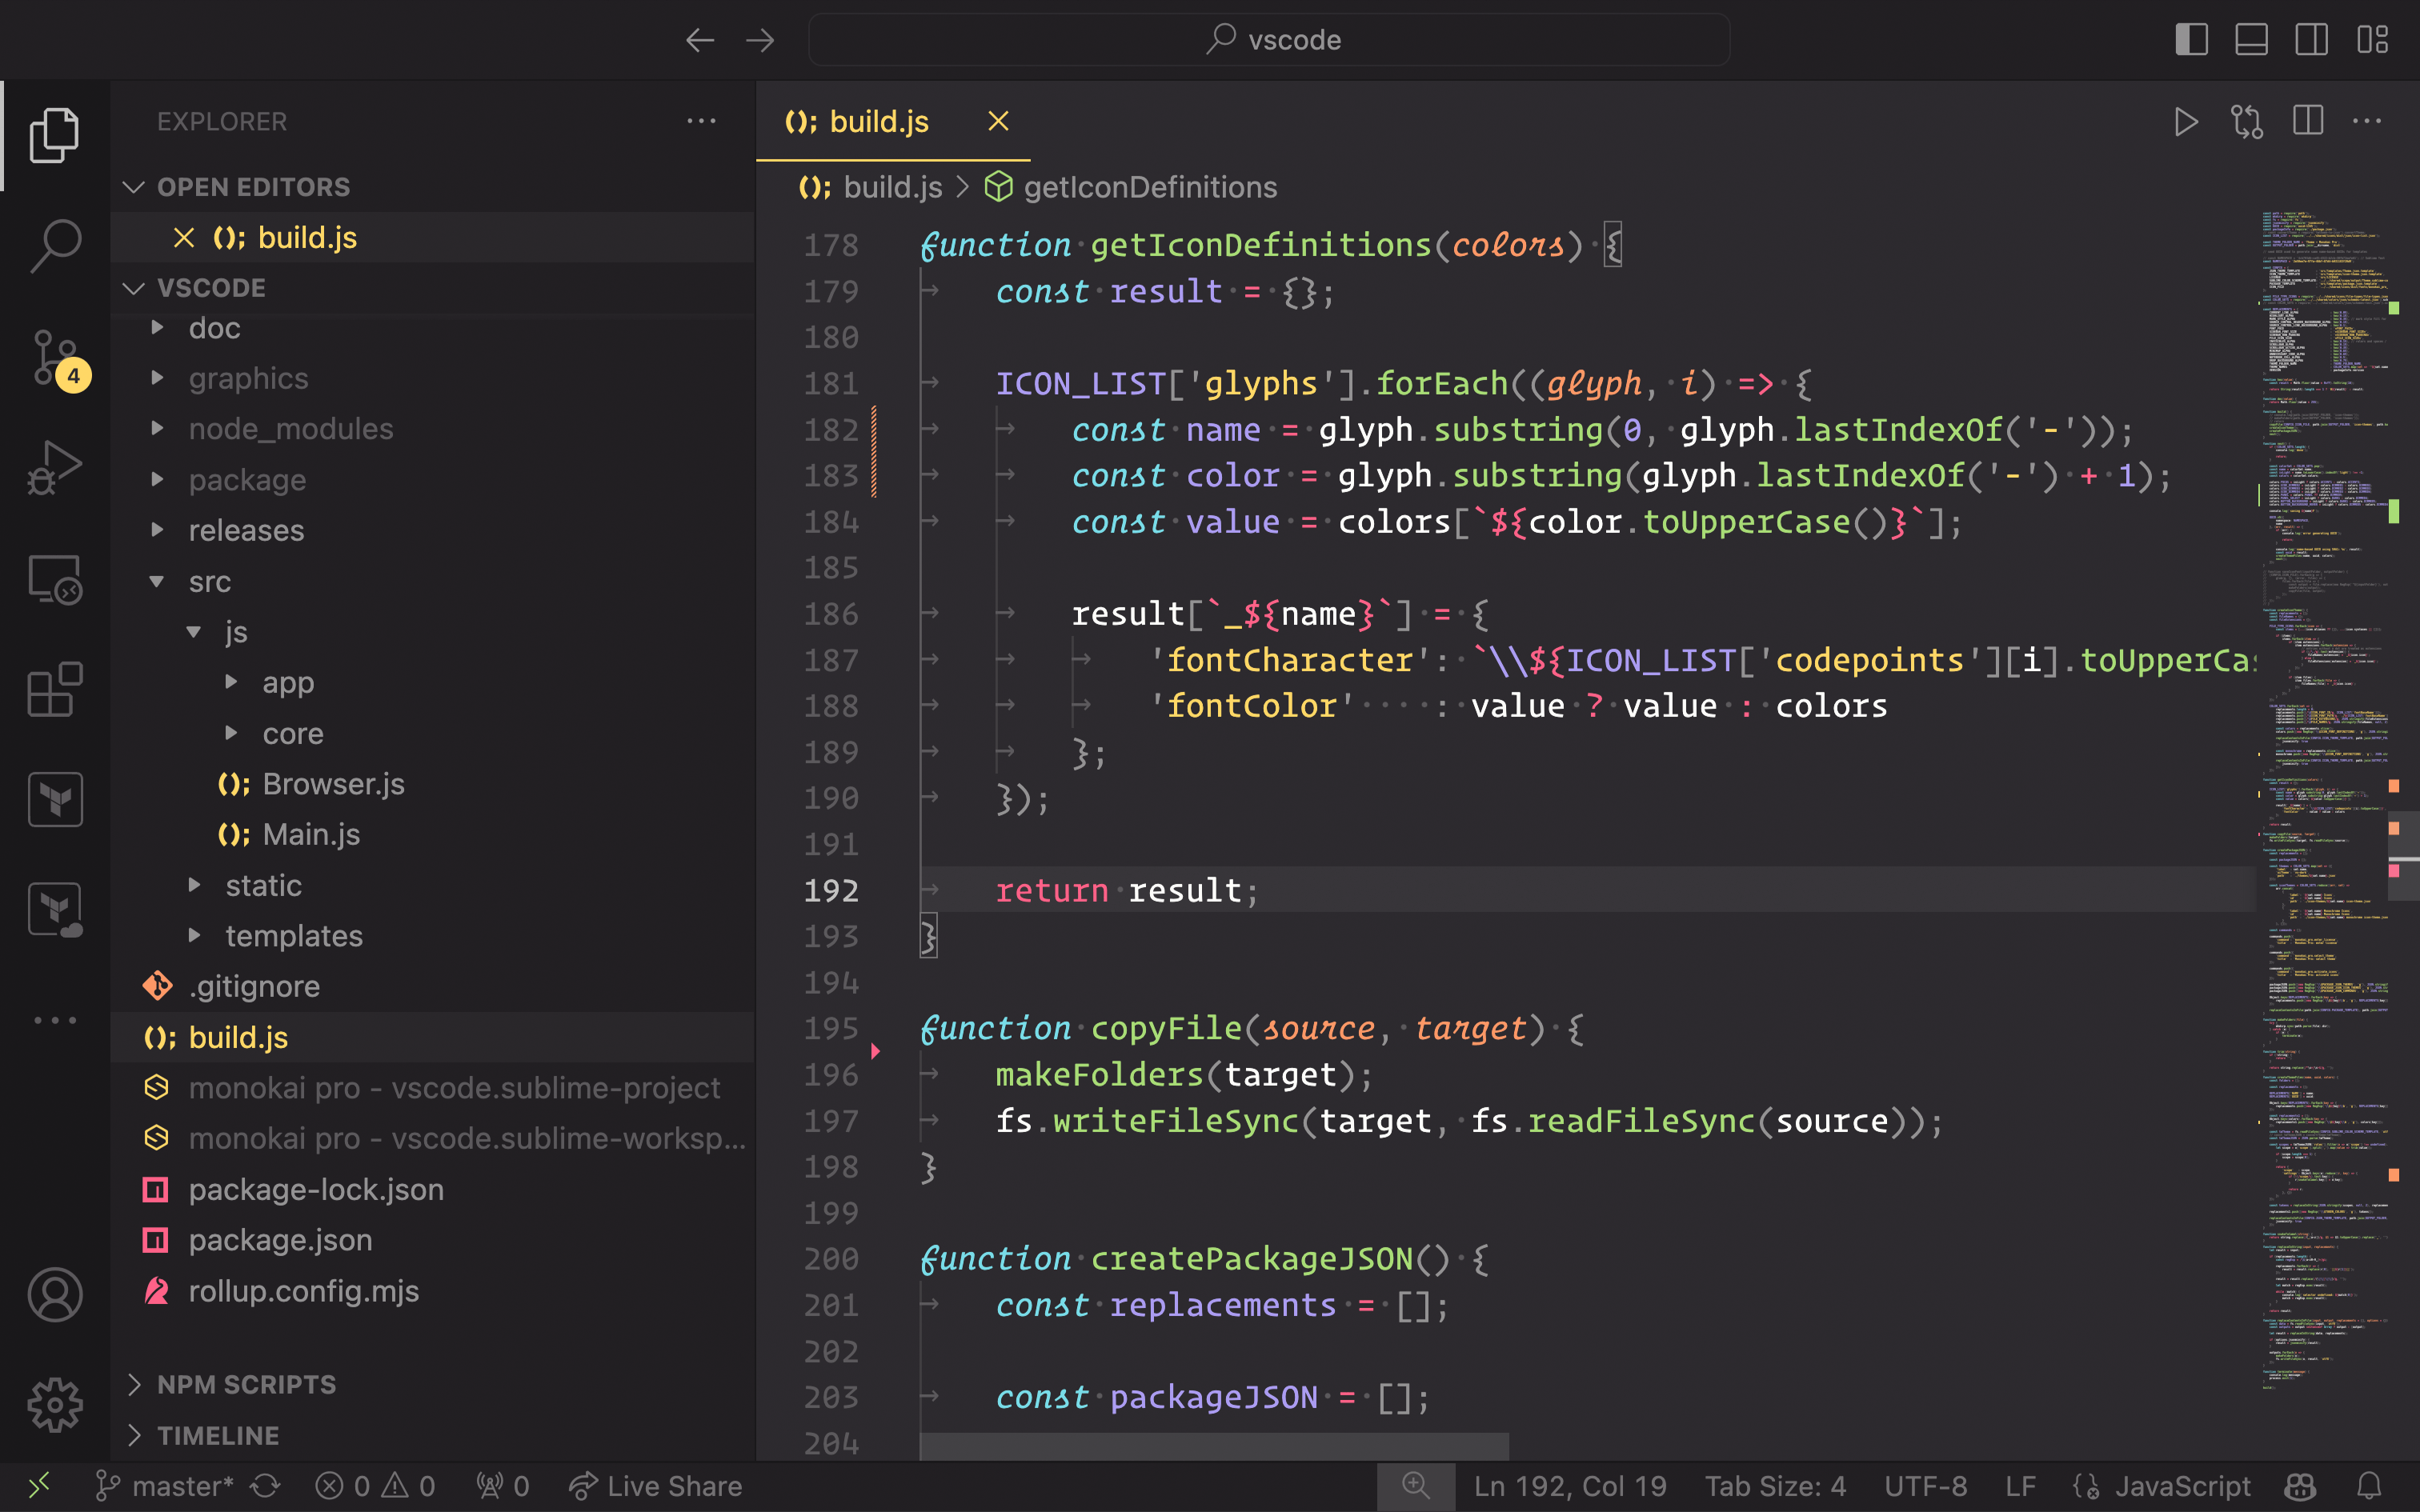
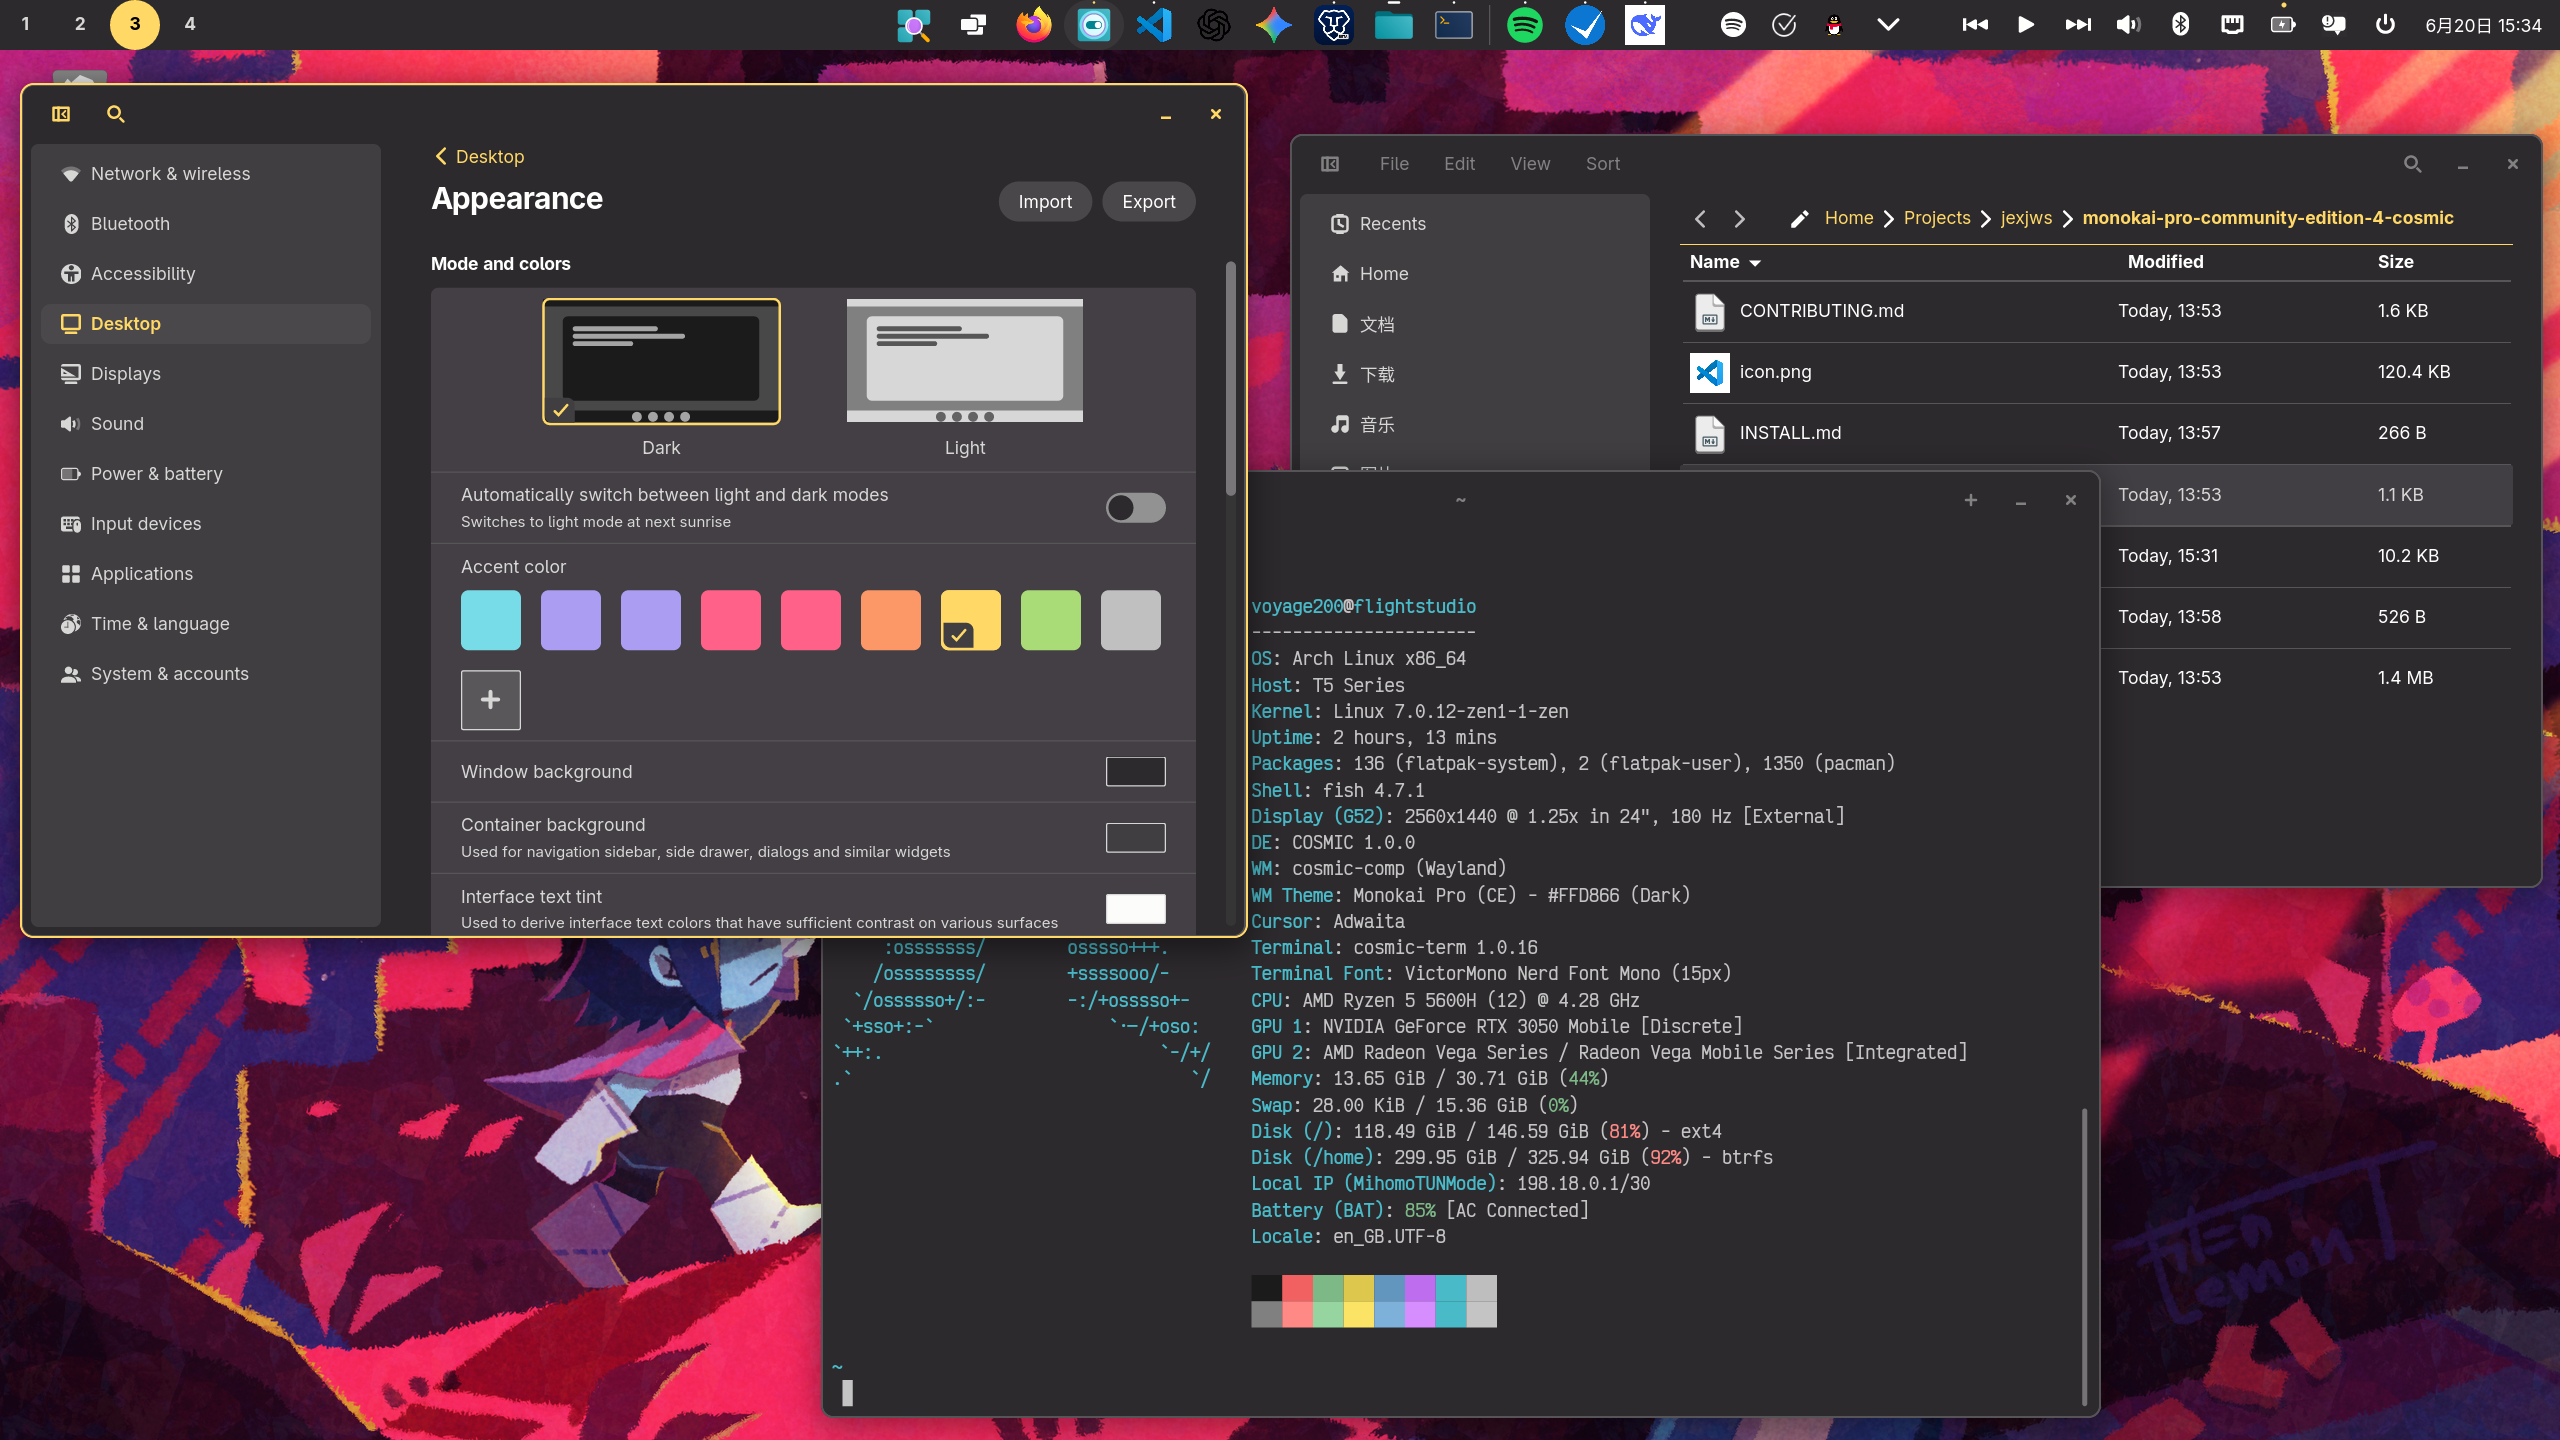
filling COSMIC desktop theme to template

diff --git a/INSTALL.md b/INSTALL.md
@@ -1,15 +1,14 @@
-# Monokai Pro (Community Edition) for [My App](https://my-app.url)
+# Monokai Pro (Community Edition) for [COSMIC desktop](https://system76.com/cosmic)
 
 ## Installation instructions
 
 Clone from Github:
 
 ```zsh
-git clone https://github.com/monokai-pro/my-app.git
+git clone https://github.com/jexjws/monokai-pro-community-edition-4-cosmic
 ```
 
 ### Activating theme
 
-1. Copy the files
-2. Activate theme
-3. Enjoy!
+1. COSMIC Settings → Desktop → Appearance → Import，select monokai-pro-ce-cosmic.ron
+2. Enjoy!

diff --git a/README.md b/README.md
@@ -1,4 +1,4 @@
-# Monokai Pro (CE) for [My App](https://my-app.url)
+# Monokai Pro (CE) for [COSMIC desktop](https://system76.com/cosmic)
 
 ![Screenshot](screenshot.png)
 